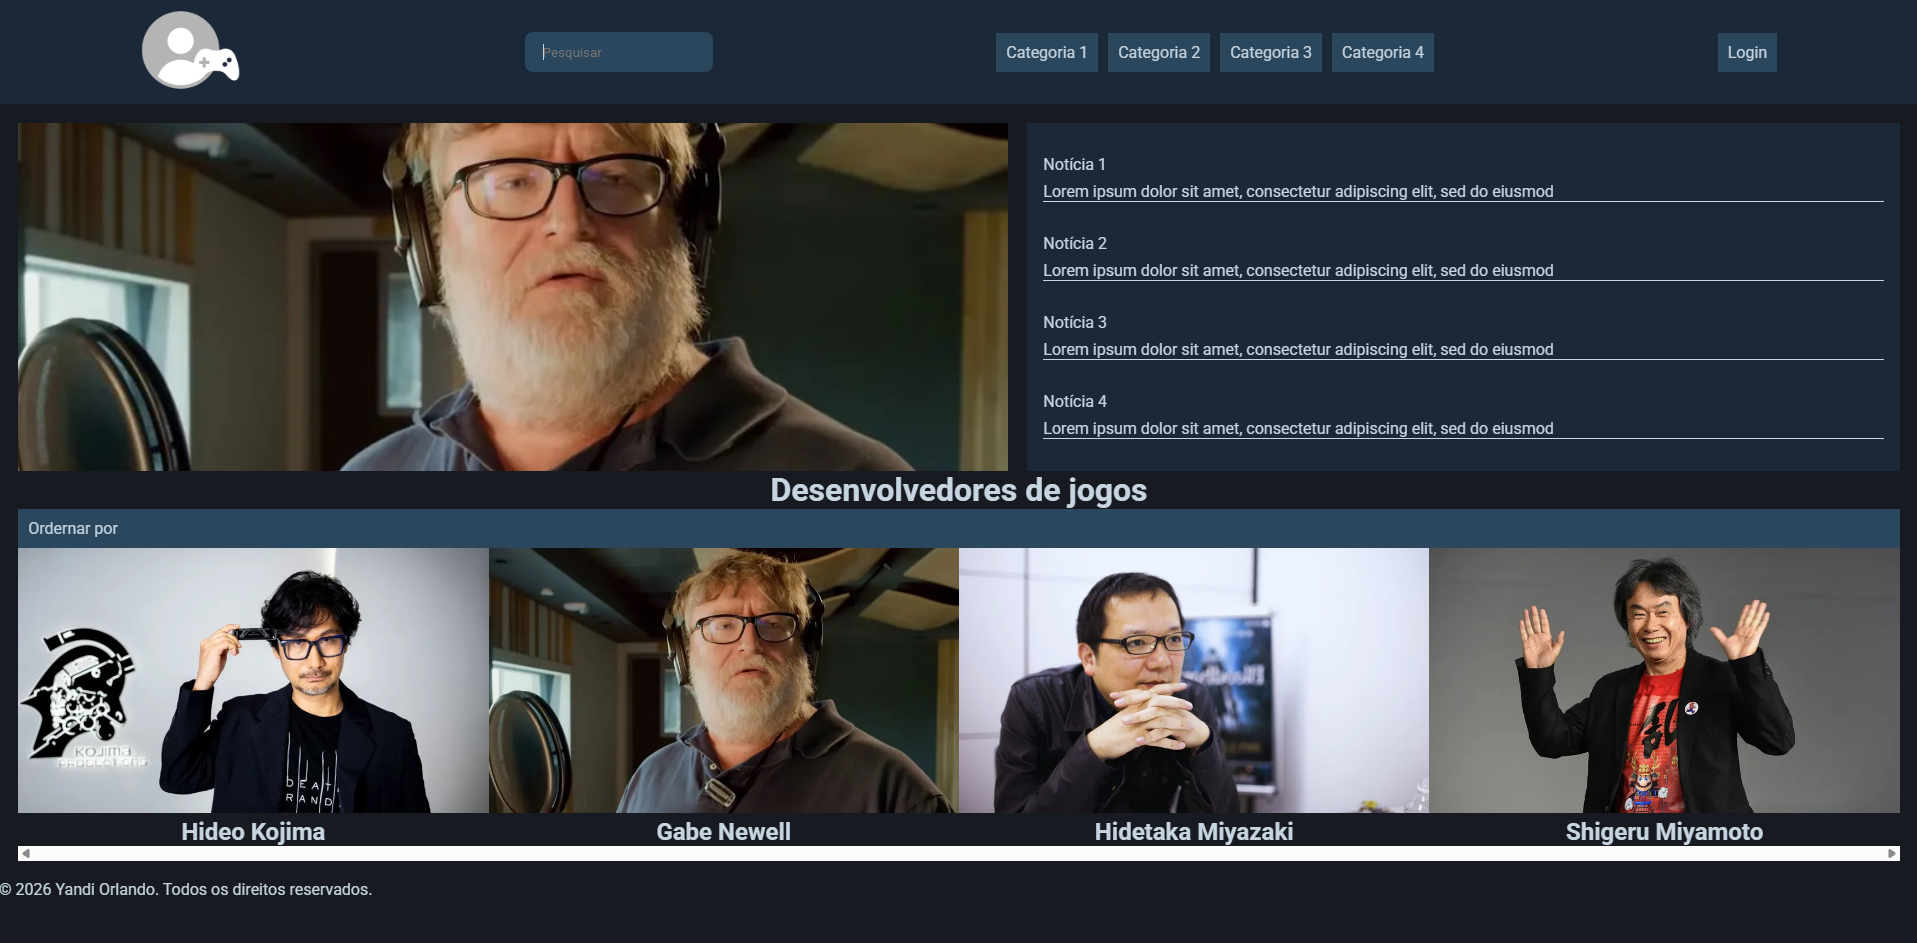
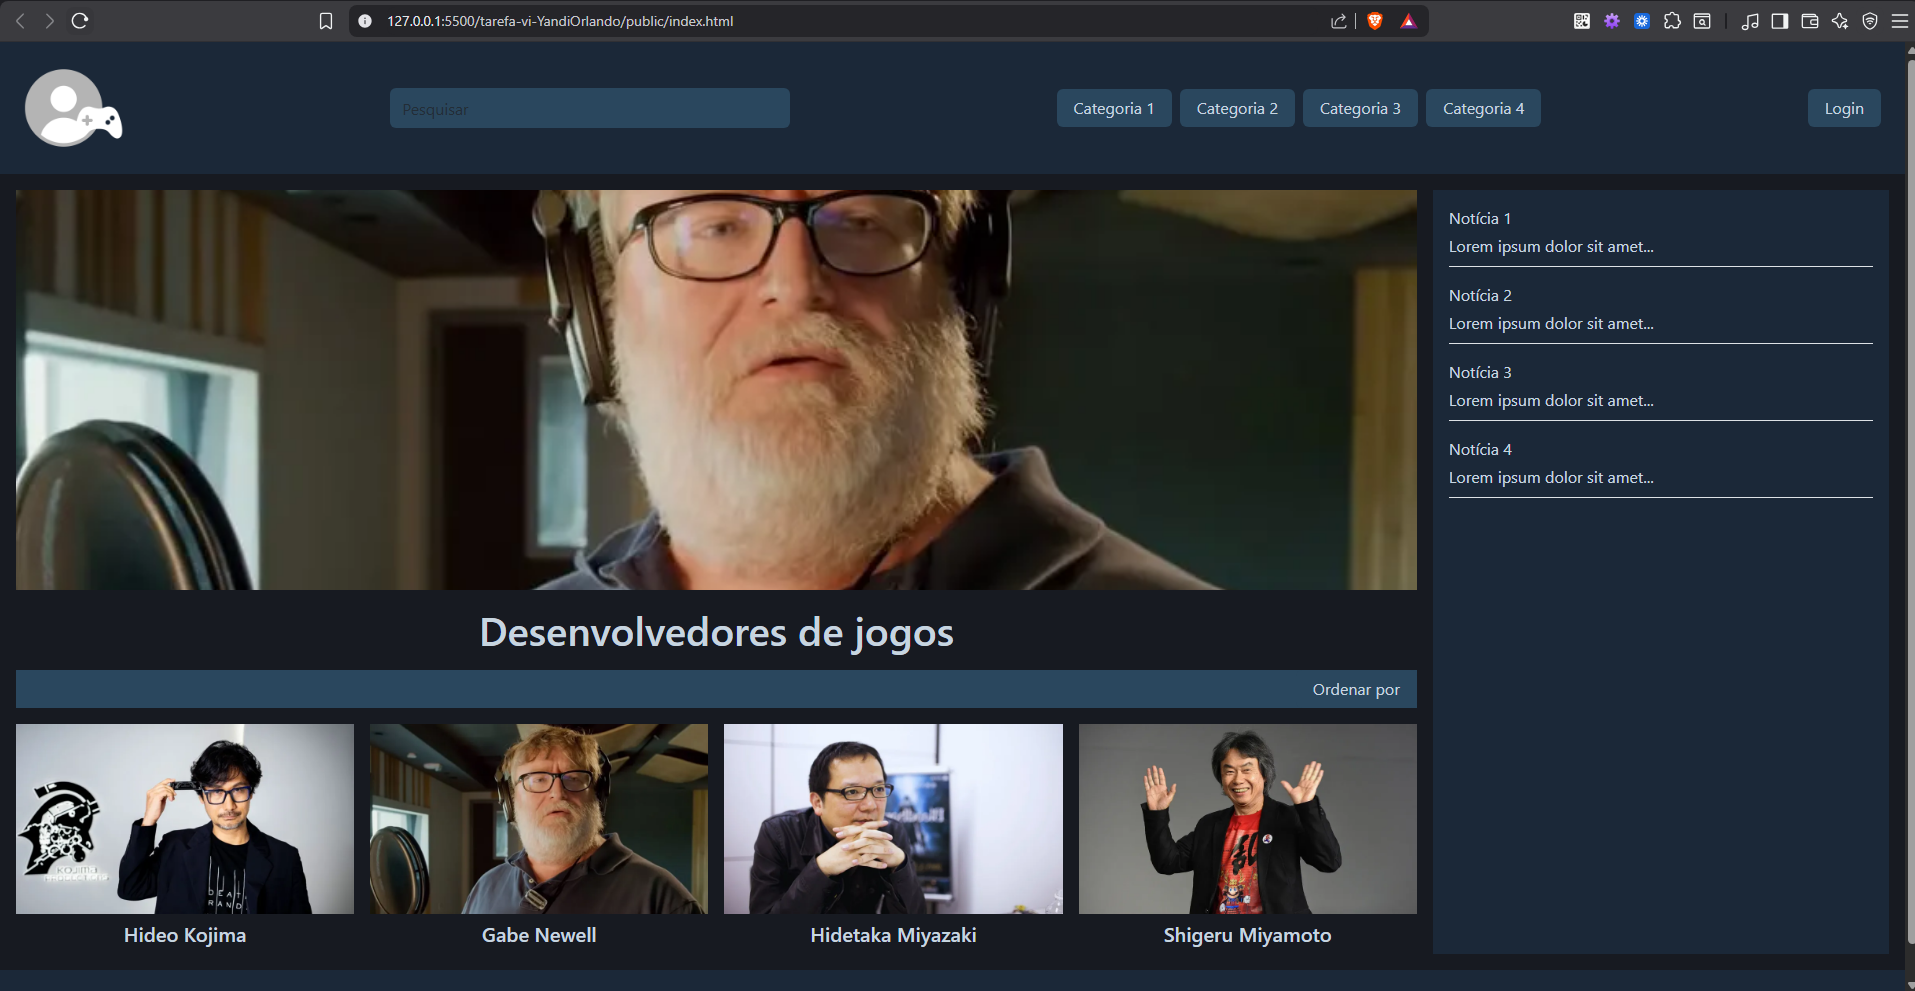
public(index, README): index e readme atualiza bootstrap

diff --git a/README.md b/README.md
@@ -1,10 +1,13 @@
-# Atividade 4 - DIW
+# Atividade  - DIW
 ## Yandi Orlando Santos Rivero - 909840
 ## Proposta:
-### Escolhi o tema "Pessoas e produções", a proposta do site seria exibir desenvolvedores de jogos e suas obras. 
+### Escolhi o tema "Pessoas e produções", a proposta do site seria exibir desenvolvedores de jogos e suas obras.  Dessa vez fiz a responsividade em Bootstrap
 
 ### Wireframe:
 ![wireframe do site](./public/wireframe.png)
 ### Site pronto:
-![página principal pronta](./public/images/print_site.png)
+![página principal pronta em bootstrap](./public/images/print_site.png)
+![página principal pronta em bootstrap ( mobile )](./public/images/print_site_mobile.png)
+
+
 [![Review Assignment Due Date](https://classroom.github.com/assets/deadline-readme-button-22041afd0340ce965d47ae6ef1cefeee28c7c493a6346c4f15d667ab976d596c.svg)](https://classroom.github.com/a/hlhhOQ_Y)
